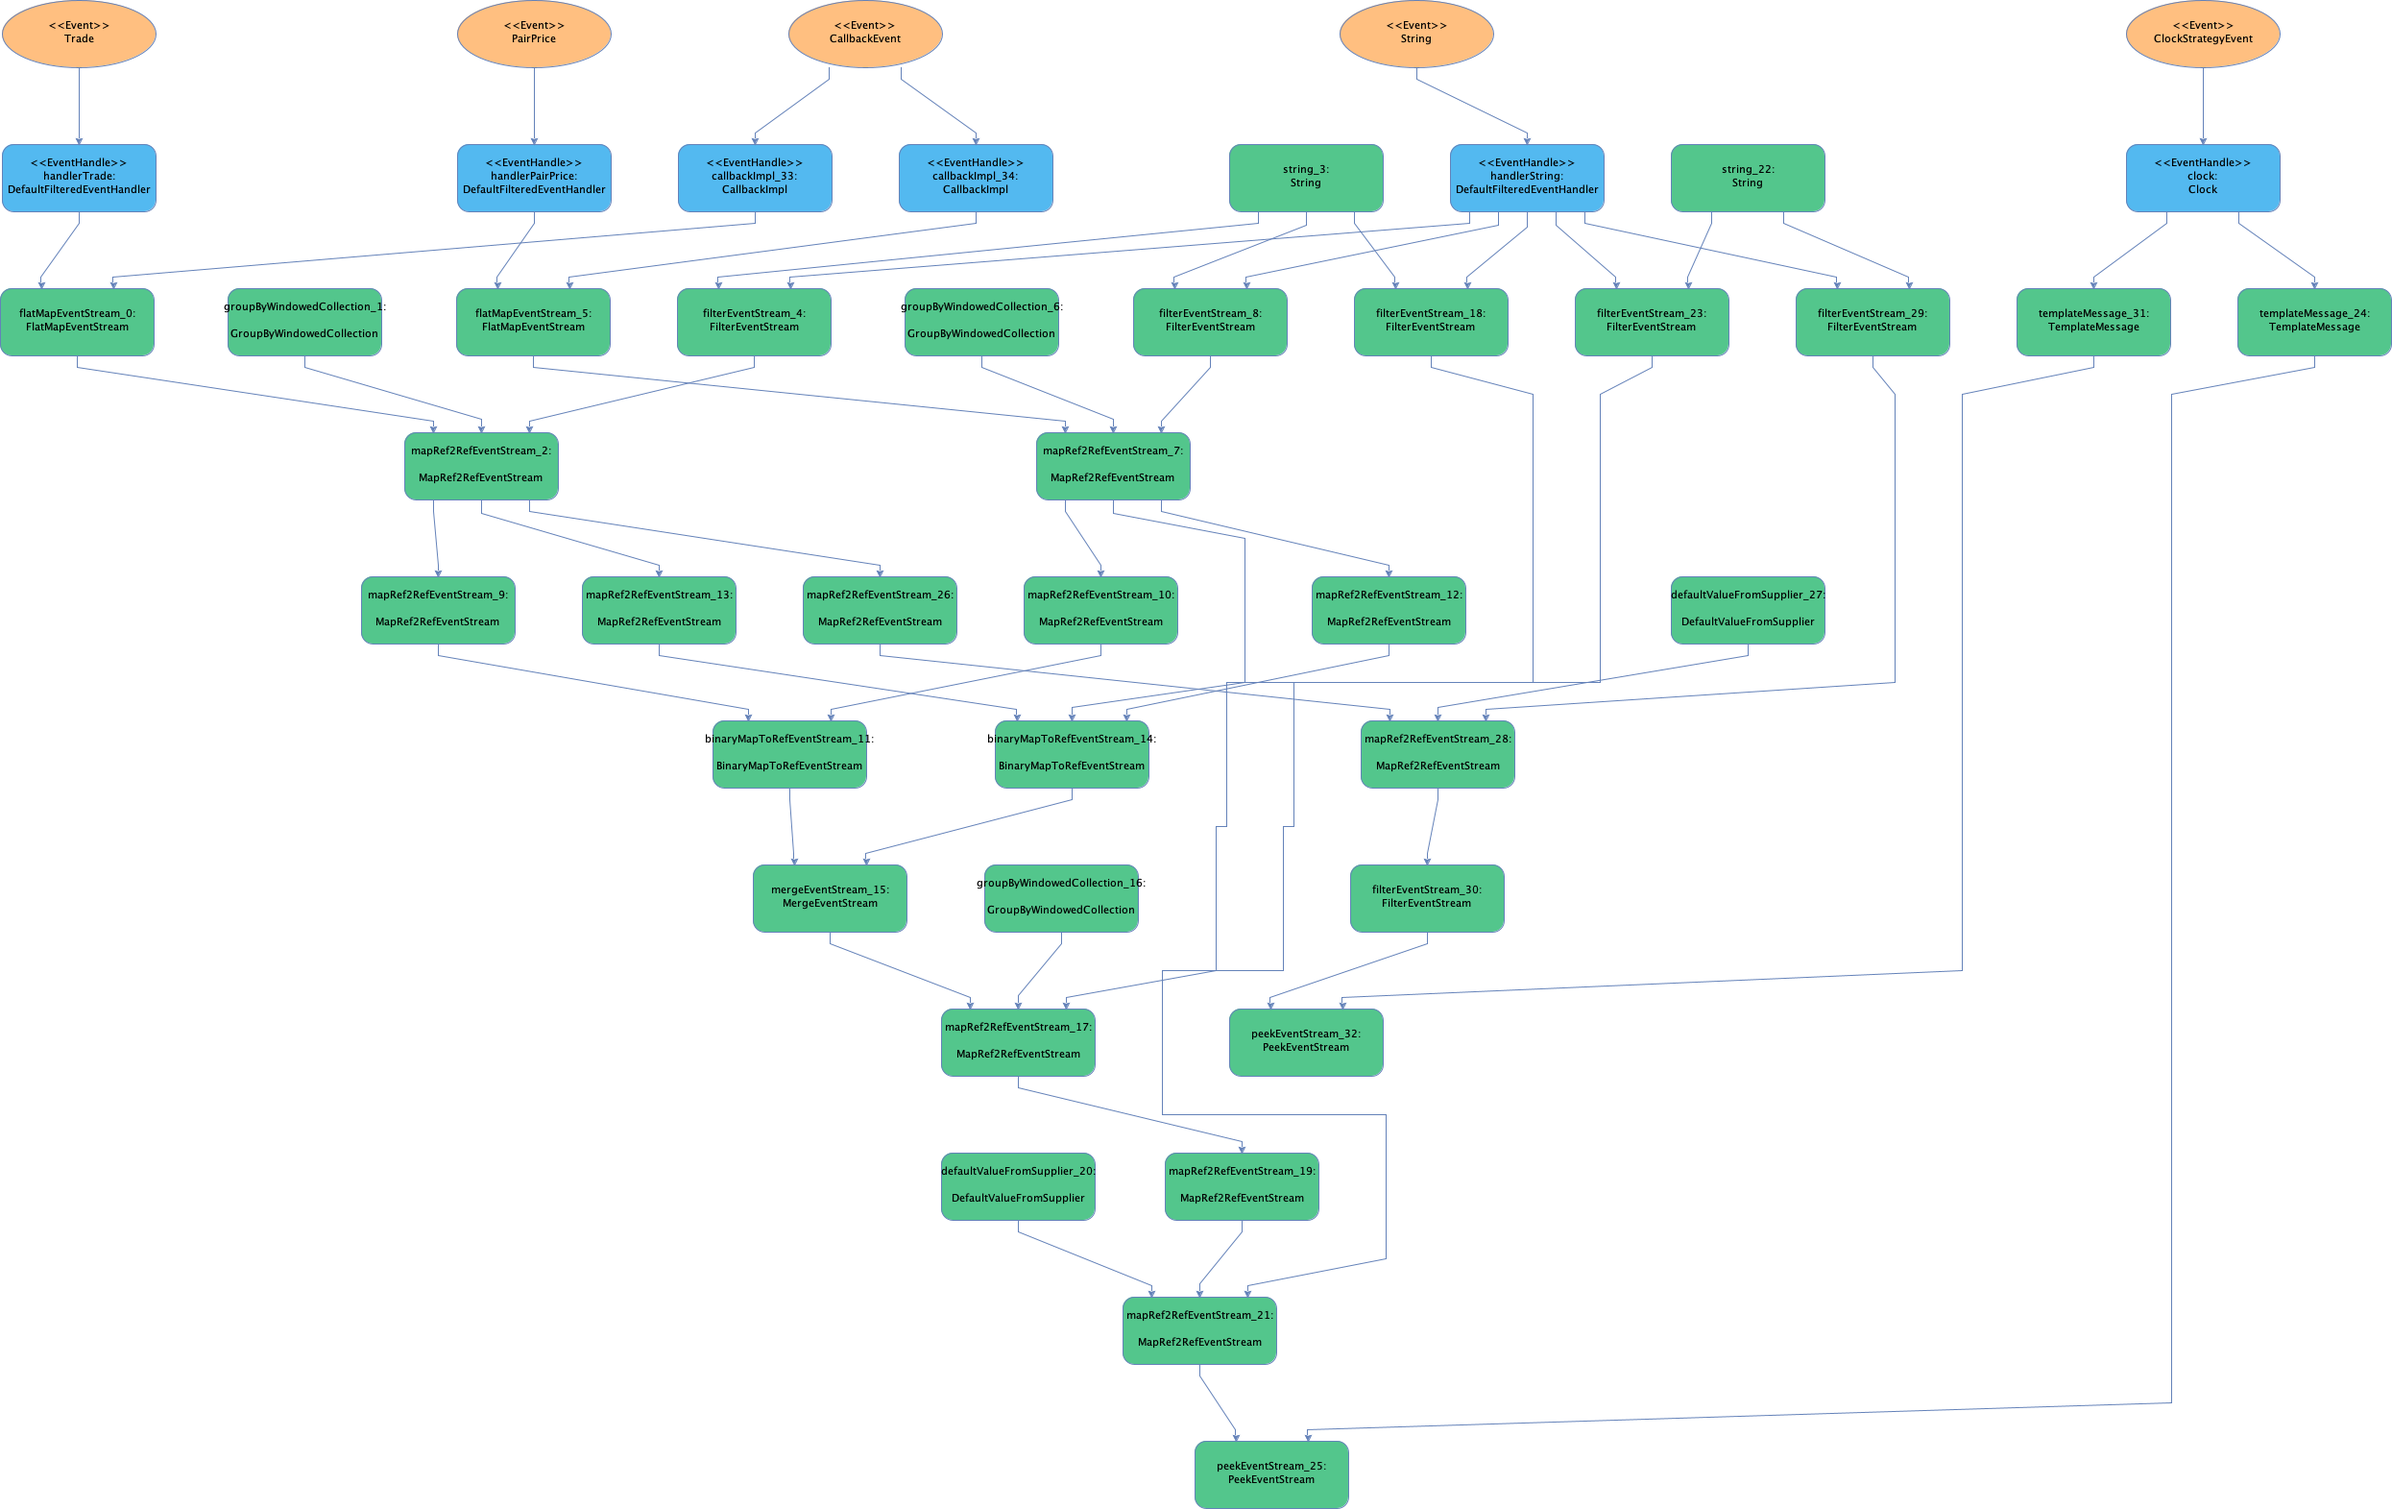
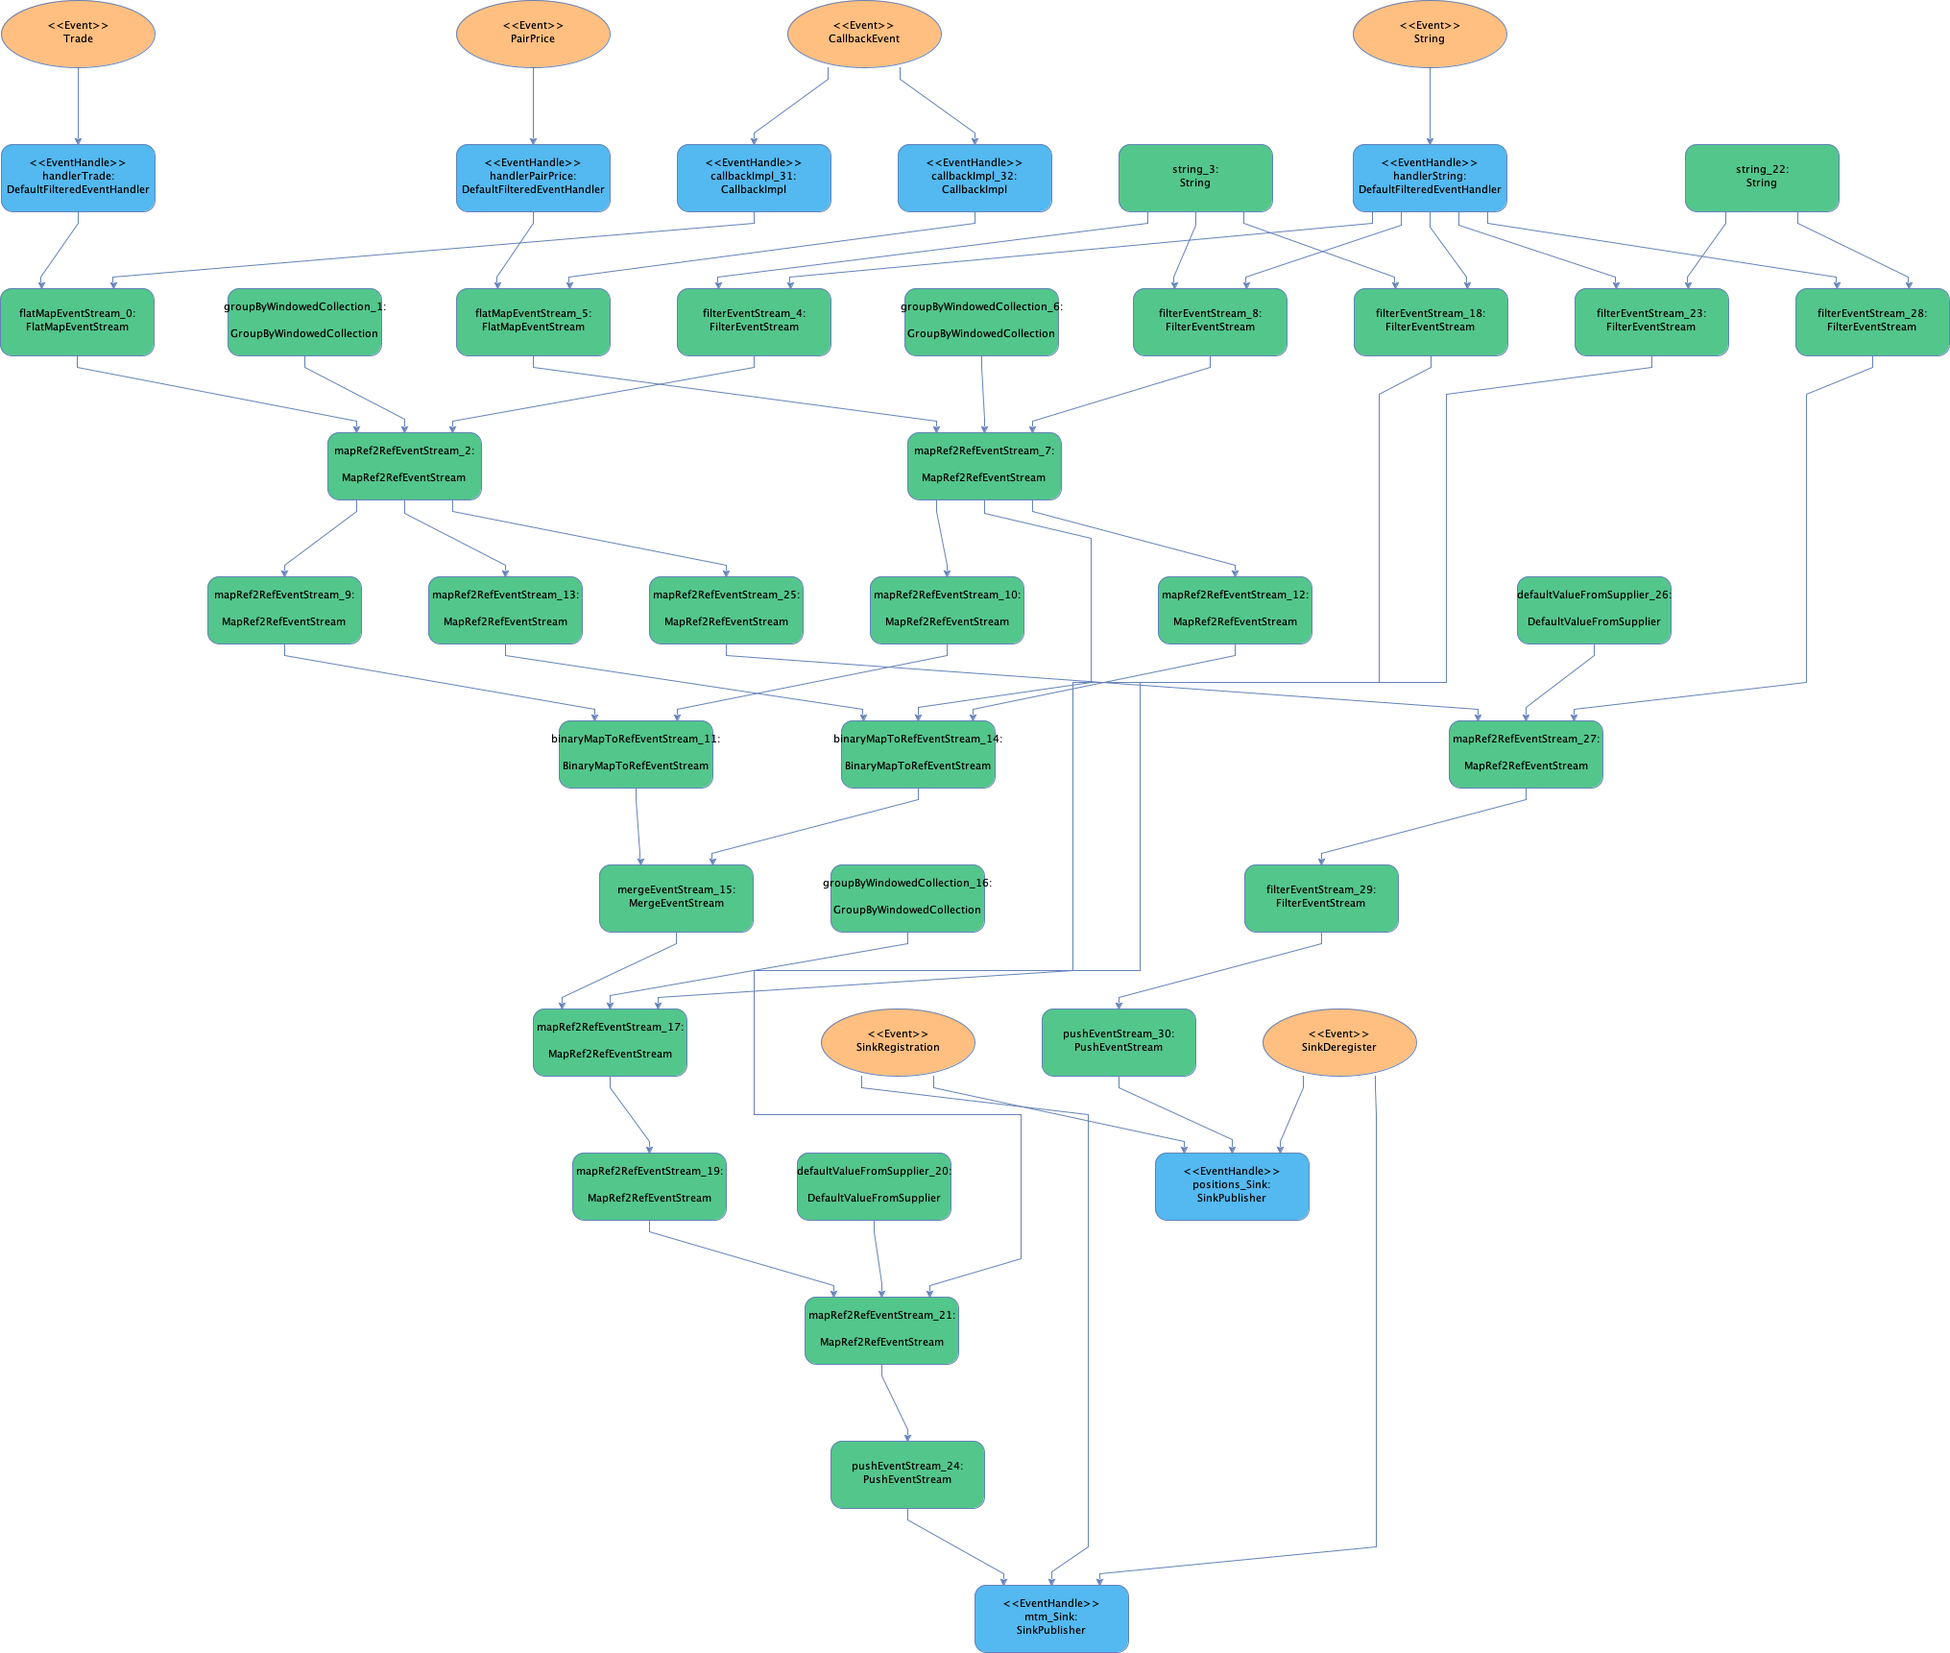
added listener to calculated outputs

Changed region(s): [[0.0, 0.0, 1.0, 0.9357], [0.4963, 0.9357, 0.5894, 1.0]]

diff --git a/unplugged/part1/src/main/java/com/fluxtion/example/unplugged/part1/TradingCalculator.java b/unplugged/part1/src/main/java/com/fluxtion/example/unplugged/part1/TradingCalculator.java
@@ -16,6 +16,7 @@ import java.util.Collections;
 import java.util.List;
 import java.util.Map;
 import java.util.Objects;
+import java.util.function.Consumer;
 
 import static com.fluxtion.compiler.builder.stream.EventFlow.subscribe;
 
@@ -36,6 +37,14 @@ public class TradingCalculator {
     public void reset() {
         streamProcessor.onEvent("reset");
         streamProcessor.onEvent("publish");
+    }
+
+    public void markToMarketListener(Consumer<Map<String, Double>> listener) {
+        streamProcessor.addSink("mtm", listener);
+    }
+
+    public void positionsListener(Consumer<Map<String, Double>> listener) {
+        streamProcessor.addSink("positions", listener);
     }
 
     public TradingCalculator() {
@@ -63,14 +72,14 @@ public class TradingCalculator {
                     .map(GroupBy::map)
                     .defaultValue(Collections::emptyMap)
                     .updateTrigger(subscribe(String.class).filter("publish"::equalsIgnoreCase))
-                    .console("MtM:{}");
+                    .sink("mtm");
 
             //Positions
             assetPosition.map(GroupBy::map)
                     .defaultValue(Collections::emptyMap)
                     .updateTrigger(subscribe(String.class).filter("publish"::equalsIgnoreCase))
                     .filter(Objects::nonNull)
-                    .console("positionMap:{}");
+                    .sink("positions");
         });
         streamProcessor.init();
     }

diff --git a/unplugged/part1/src/main/java/com/fluxtion/example/unplugged/part1/Trade.java b/unplugged/part1/src/main/java/com/fluxtion/example/unplugged/part1/Trade.java
@@ -9,13 +9,13 @@ import java.util.List;
 public class Trade {
     public static Trade bought(String instrumentId, double dealtAmount, double contraAmount) {
         return new Trade(
-                new AssetAmountTraded(instrumentId.substring(0,3), dealtAmount),
+                new AssetAmountTraded(instrumentId.substring(0, 3), dealtAmount),
                 new AssetAmountTraded(instrumentId.substring(3), -1.0 * contraAmount));
     }
 
     public static Trade sold(String instrumentId, double dealtAmount, double contraAmount) {
         return new Trade(
-                new AssetAmountTraded(instrumentId.substring(0,3), -1.0 * dealtAmount),
+                new AssetAmountTraded(instrumentId.substring(0, 3), -1.0 * dealtAmount),
                 new AssetAmountTraded(instrumentId.substring(3), contraAmount));
     }
 

diff --git a/unplugged/part1/src/main/java/com/fluxtion/example/unplugged/part1/Main.java b/unplugged/part1/src/main/java/com/fluxtion/example/unplugged/part1/Main.java
@@ -3,9 +3,14 @@ package com.fluxtion.example.unplugged.part1;
 public class Main {
     public static void main(String[] args) {
         TradingCalculator tradingCalculator = new TradingCalculator();
+        //add listener
+        tradingCalculator.markToMarketListener(m -> System.out.println("received MTM:" + m));
+        tradingCalculator.positionsListener(m -> System.out.println("received positions:" + m));
+        //send trades and rates
         tradingCalculator.processTrade(Trade.bought("EURUSD", 250d, 130d));
         tradingCalculator.priceUpdate(new PairPrice("EURUSD", 1.5));
         tradingCalculator.processTrade(Trade.sold("EURCHF", 120d, 100d));
+        //reset
         tradingCalculator.reset();
     }
 }
